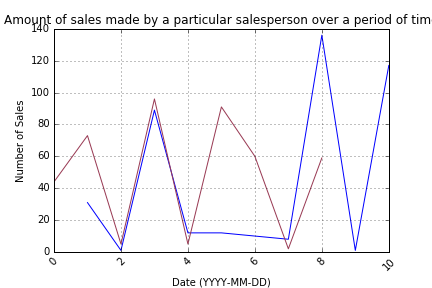
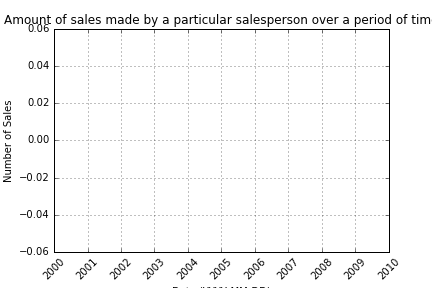
error fix for non sales employee input userStory14

diff --git a/qaShared-Python-Friday/for git/UserStories/userStory14.py b/qaShared-Python-Friday/for git/UserStories/userStory14.py
@@ -19,7 +19,6 @@ def userStory14(db, GUI, startDate, endDate, employeeID):
             employeeID = input("Please enter the employee ID: ")  
     
         sqlParse = queries[14] % (startDate, endDate, employeeID)
-          
         sql = sqlParse
         results = query(db, sql)
         
@@ -27,21 +26,26 @@ def userStory14(db, GUI, startDate, endDate, employeeID):
         totals = []        
         for r in range(0, len(results)):
             dates.append(results[r][1])
-            totals.append(results[r][2])
+            totals.append(results[r][2])      
         
-        # dates ratings product
-        print ("Plotting the data...")
-        plt.plot_date(dates, totals, "#993A54")
-        plt.legend(loc=1)
-        plt.xlabel('Date (YYYY-MM-DD)')
-        plt.xticks(rotation=45)
-        plt.ylabel('Number of Sales')
-        plt.title('Amount of sales made by a particular salesperson over a period of time')
-        plt.grid(True)
-        #plt.savefig("C:\\Users\\Administrator\\Desktop\\qaShared-python-20160907T080629Z\\qaShared-python\\qaShared-python\\for git\\Image Files\\userStory14.png")
-        plt.savefig("graph.png")
-        plt.show()     
-        
+        if (len(results) == 0):
+            print ("There is no sales data available for this employee for the specified timeframe.")
+            if (GUI):
+                results = ["There is no sales data available for this employee for the specified timeframe."]
+        else:
+            # dates ratings product
+            print ("Plotting the data...")
+            plt.plot_date(dates, totals, "#993A54")
+            plt.legend(loc=1)
+            plt.xlabel('Date (YYYY-MM-DD)')
+            plt.xticks(rotation=45)
+            plt.ylabel('Number of Sales')
+            plt.title('Amount of sales made by a particular salesperson over a period of time')
+            plt.grid(True)
+            #plt.savefig("C:\\Users\\Administrator\\Desktop\\qaShared-python-20160907T080629Z\\qaShared-python\\qaShared-python\\for git\\Image Files\\userStory14.png")
+            plt.savefig("graph.png")
+            plt.show()
+
         # If GUI return the data
         if (GUI):
             return [results]

diff --git a/qaShared-Python-Friday/for git/MongoDatabase.py b/qaShared-Python-Friday/for git/MongoDatabase.py
@@ -19,6 +19,8 @@ from UserStories.userStory10 import userStory10
 from UserStories.userStory11 import userStory11
 from UserStories.userStory15 import userStory15
 
+import MySQLDatabase
+
 #MONGODB_URI = 'mongodb://master:pa$$w0rd@ds019766.mlab.com:19766/nbgardens'
 #conn = MongoClient(MONGODB_URI)
 #db = conn.get_default_database() 
@@ -145,6 +147,11 @@ class MongoDatabase(object):
 
     def userStory7(self, GUI, customerID):
         """ useCase7:  """
+        #print ("Doing things")
+        #from MySQLDatabase import MySQLDatabase
+        #query = "SELECT * FROM Product"
+        #toPrint = MySQLDatabase.customQuery(True, query)
+        #print (toPrint)
         if (GUI):
             return userStory7(MongoQueries, True, customerID)
         else:

diff --git a/qaShared-Python-Friday/for git/MySQLDatabase.py b/qaShared-Python-Friday/for git/MySQLDatabase.py
@@ -22,6 +22,11 @@ from UserStories.userStory12 import userStory12
 from UserStories.userStory13 import userStory13
 from UserStories.userStory14 import userStory14
 from UserStories.userStory16 import userStory16
+
+from MongoDatabase import MongoDatabase
+
+# TODO:
+# rename local userStoryX to runUserStoryX etc
             
 class MySQLDatabase(object):
     """ Database: Holds the database object used for querying, also holds the
